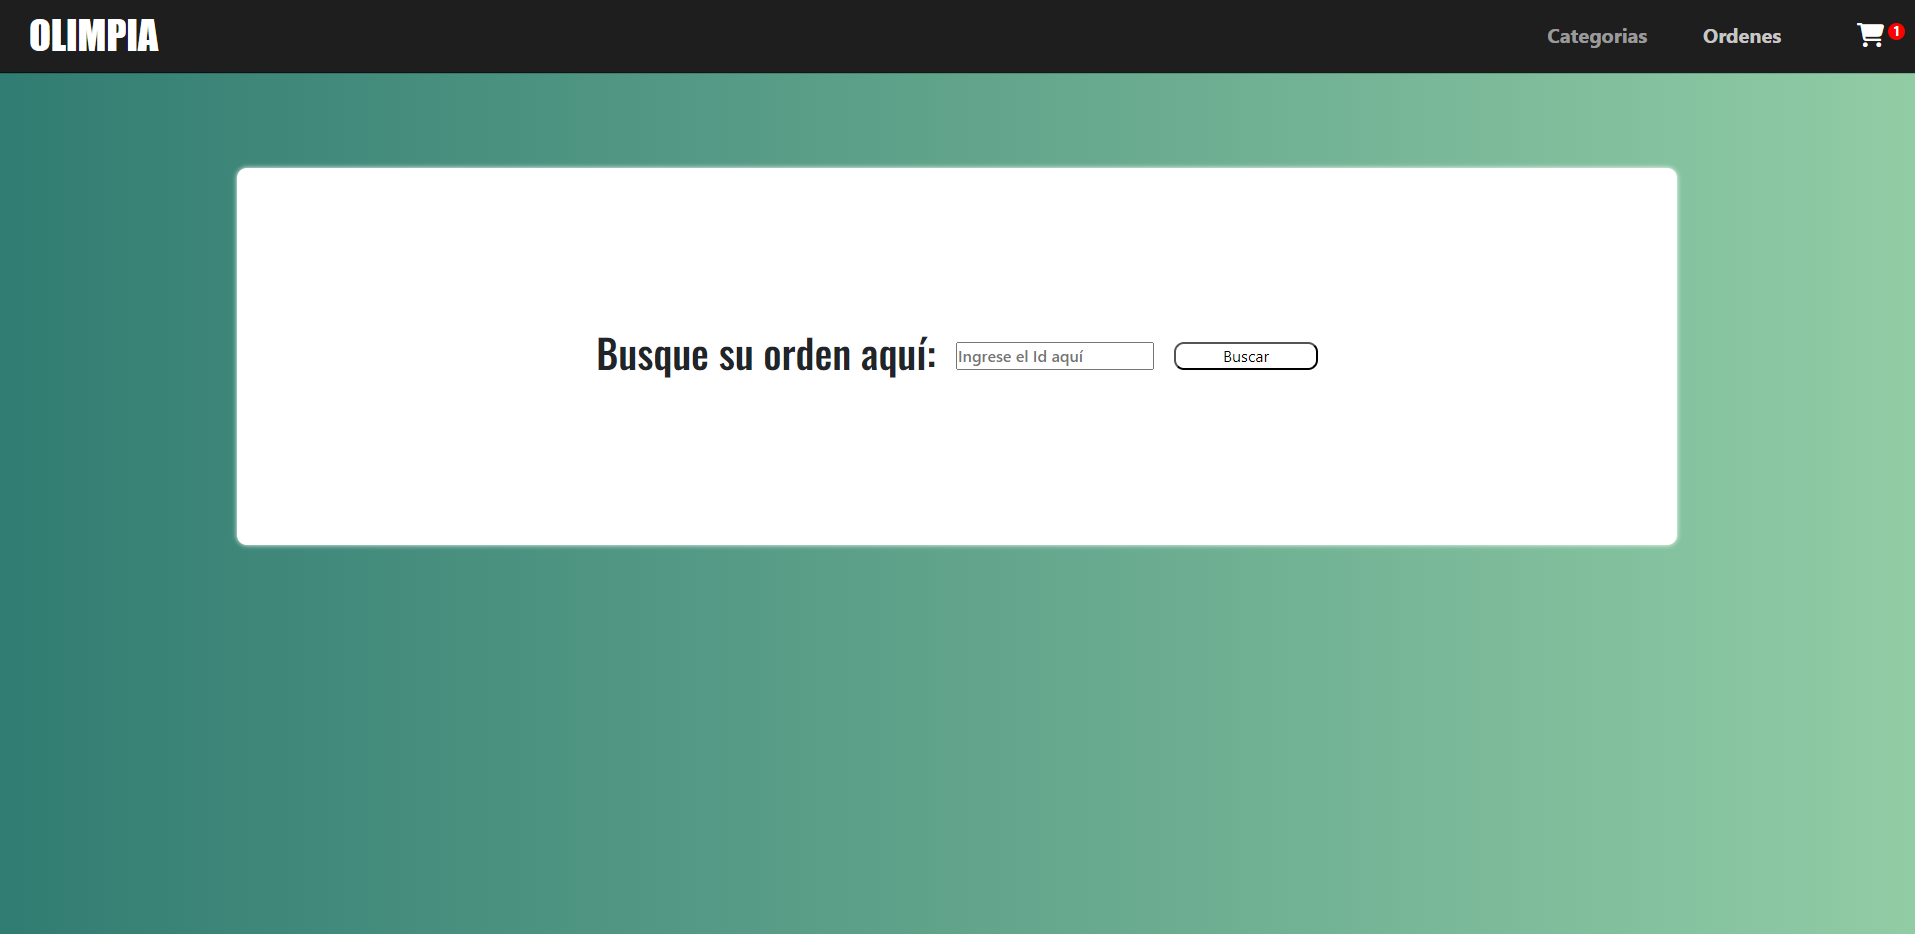
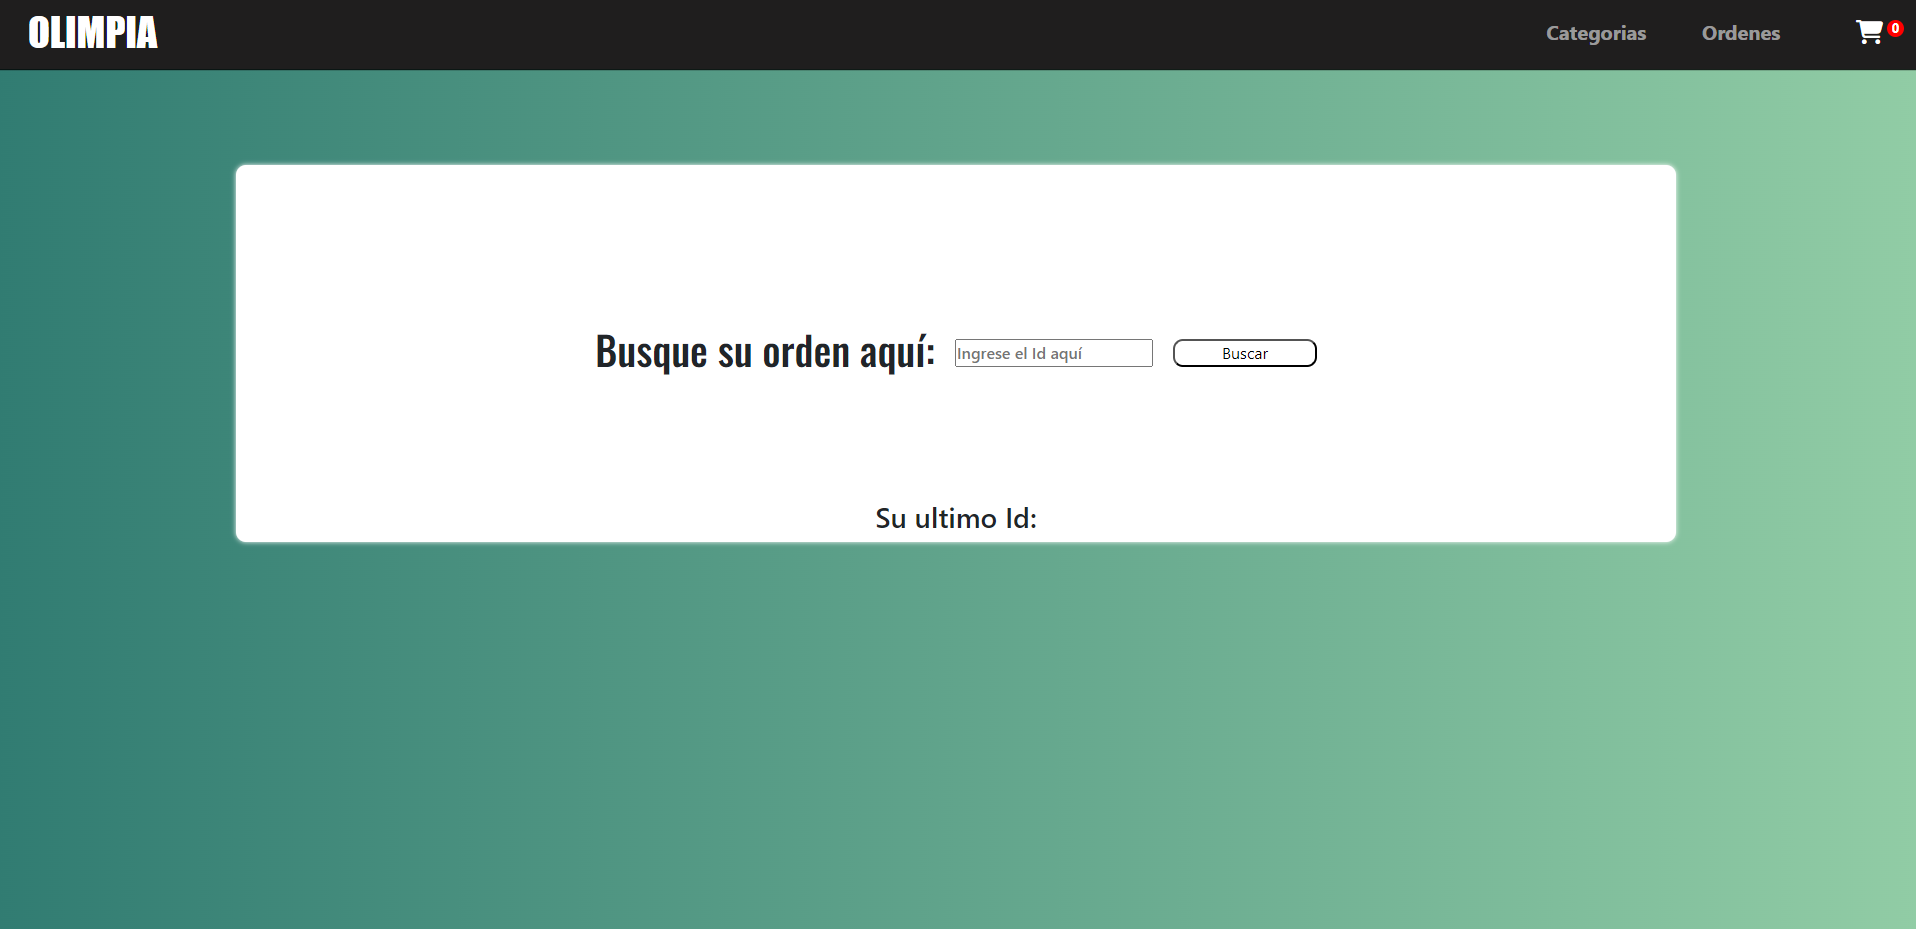
Readme.md

diff --git a/src/Routes/Checkout/Checkout.jsx b/src/Routes/Checkout/Checkout.jsx
@@ -1,6 +1,7 @@
 import React, { useEffect, useState } from 'react';
 import { getFirestore, collection, addDoc } from 'firebase/firestore';
 import './Checkout.css'
+import BackButton from '../../Components/Buttons/BackButton';
 
 const Checkout = () => {
   const [form, setForm] = useState({
@@ -48,13 +49,18 @@ const Checkout = () => {
   
 
     addDoc(ordersCollection, formData).then((snapshot) => setId(snapshot.id));
+    
   };
-  
-
+  useEffect(()=>{
+    localStorage.setItem('LastId',id)
+  },[id])
   return (
     <div>
       {typeof id !== 'undefined' ? (
-        <h3 className='order-confirmed-h3'>Listo! <span className='d-block my-5'>El id de su orden es {id}</span> Muchas gracias por elegirnos!</h3>
+        <>
+          <BackButton/>
+          <h3 className='order-confirmed-h3'>Listo! <span className='d-block my-5'>El id de su orden es {id}</span> Muchas gracias por elegirnos!</h3>
+        </>
       ) : (
         <div className='form-container'>
             <h3 className='form-container-h3'>Complete los siguientes datos</h3>

diff --git a/src/Routes/Orderfinder/Orderfinder.jsx b/src/Routes/Orderfinder/Orderfinder.jsx
@@ -40,8 +40,8 @@ const OrderFinder = () =>{
             onChange={(e) => setId(e.target.value)}
             />
             <button className="order-finder-btn" onClick={handleSearch}>Buscar</button>
+            <h3 className="order-finder-h3">Su ultimo Id: {localStorage.getItem("LastId")}</h3>
         </div>
-        
         {order.length !== 0 ?(
             <div className="search-result">
                 <h2 className="search-result-title py-4 justify-content-center fs-1">Resultado de la búsqueda</h2>

diff --git a/src/Routes/Orderfinder/Orderfinder.css b/src/Routes/Orderfinder/Orderfinder.css
@@ -1,5 +1,6 @@
 @import url('https://fonts.googleapis.com/css2?family=Oswald:wght@200;400;500;700&display=swap');
 .order-finder{
+    position: relative;
     display: flex;
     align-items: center;
     justify-content: center;
@@ -86,7 +87,10 @@
     margin: auto;
     height: auto;
 }
-
+.order-finder-h3{
+    position: absolute;
+    bottom: 0;
+}
 @media screen and (min-width: 0px) and (max-width: 992px) {
     .order-finder{
         flex-direction: column;

diff --git a/src/Components/CartContainer/Components/DecrementBtn.jsx b/src/Components/CartContainer/Components/DecrementBtn.jsx
@@ -19,7 +19,7 @@ const DecrementBtn = (producto) =>{
         localStorage.setItem('cantidad', updatedCart.length);
     }
     return(
-        <button className="increment-decrement-btn" onClick={()=>decrement()}>-</button>
+        <button className="increment-decrement-btn" onClick={decrement}>-</button>
     )
 }
 

diff --git a/src/Components/CartContainer/Components/IncrementBtn.jsx b/src/Components/CartContainer/Components/IncrementBtn.jsx
@@ -21,7 +21,7 @@ const IncrementBtn = (producto) =>{
         localStorage.setItem('cantidad', updatedCart.length);
     }
     return(
-        <button className="increment-decrement-btn" onClick={()=>increment()}>+</button>
+        <button className="increment-decrement-btn" onClick={increment}>+</button>
     )
 }
 
